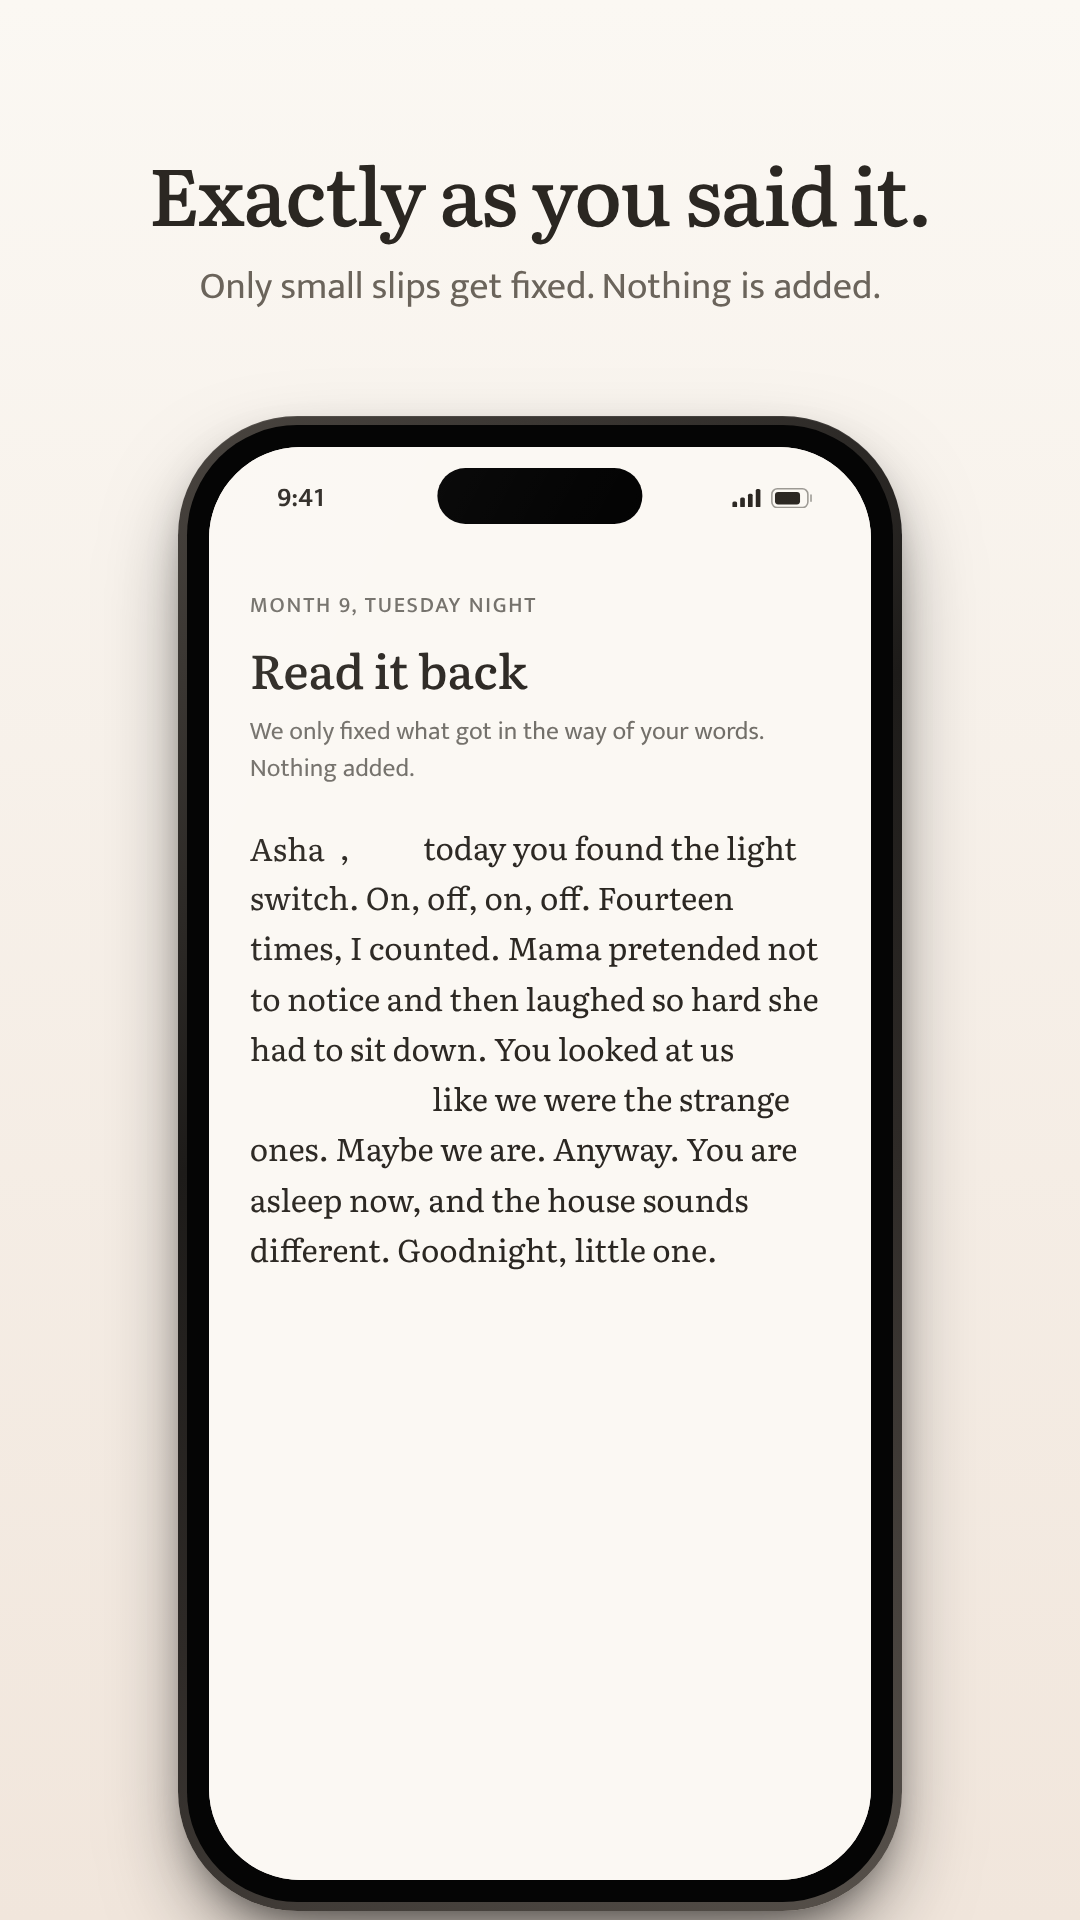
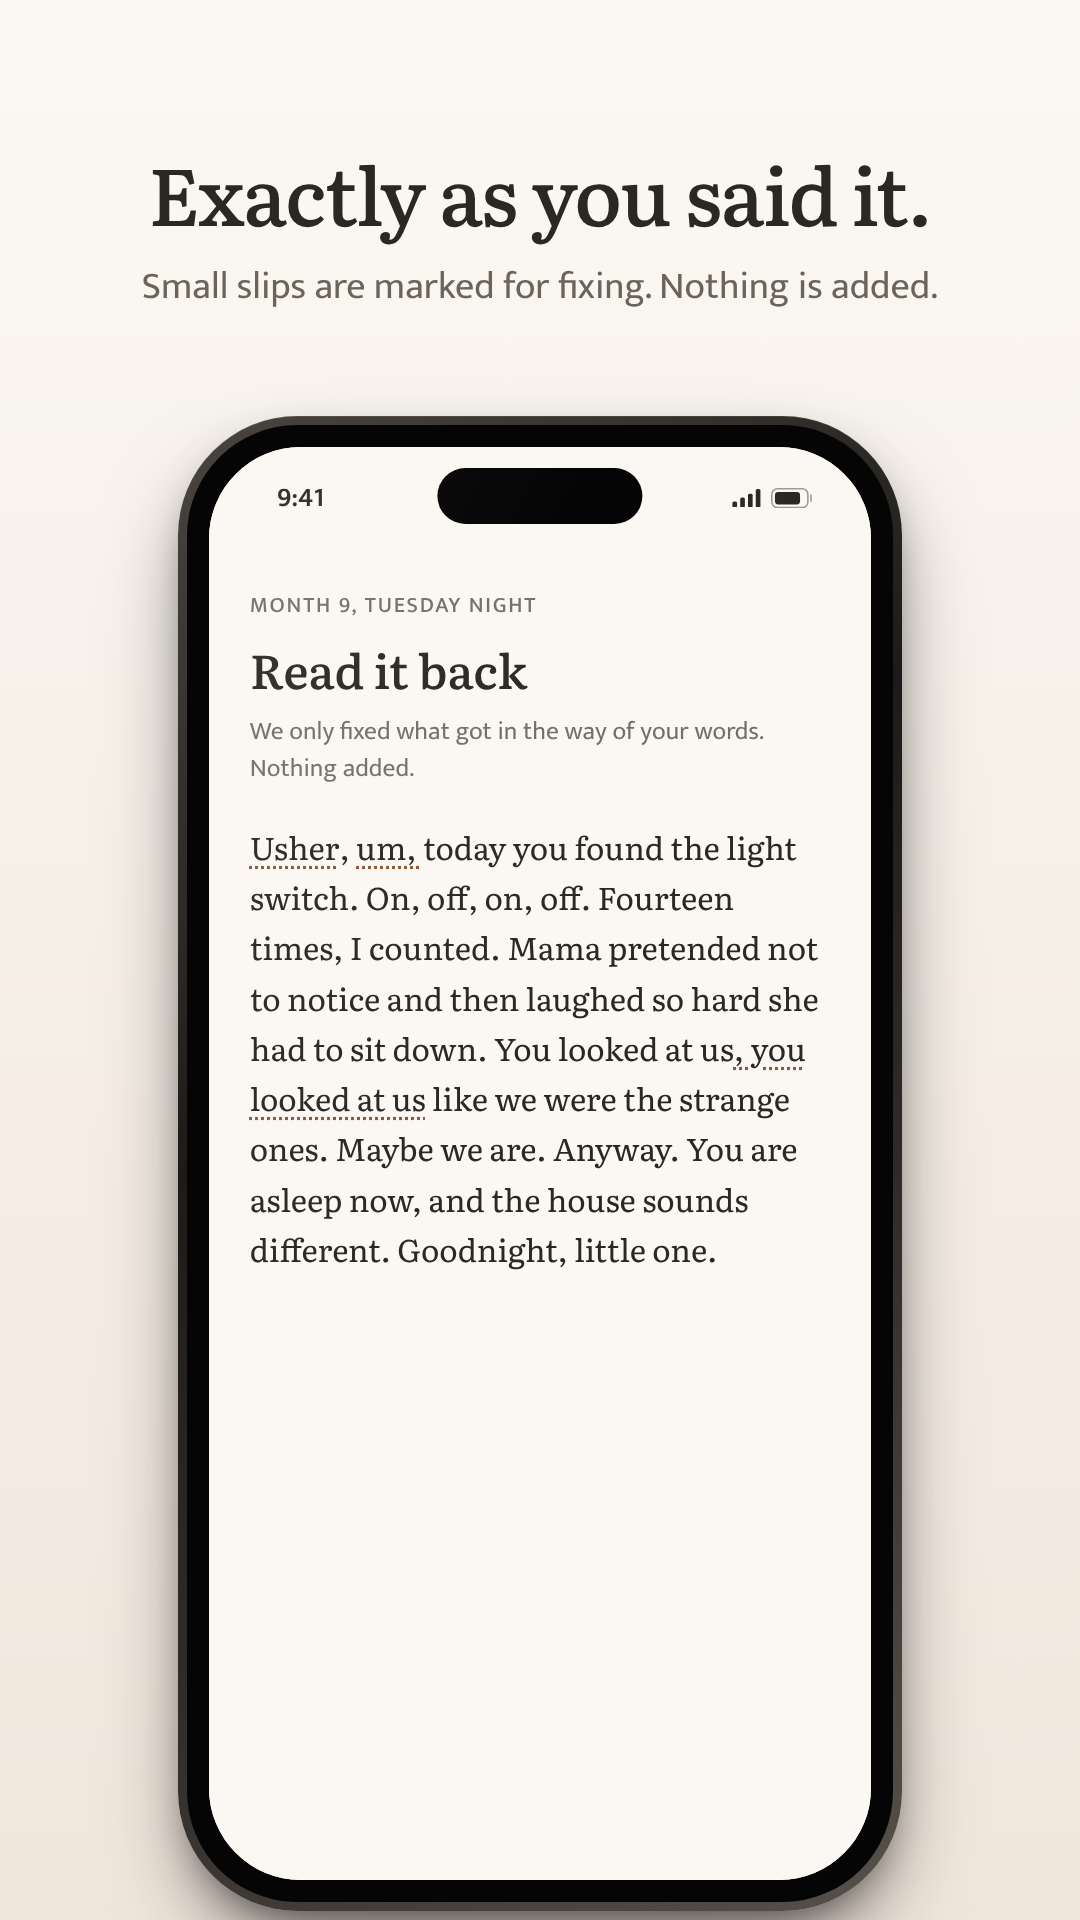
docs(store): screenshots final (iOS 6.9 and 6.5, Play, six-screen story)
Claude-Session: https://claude.ai/code/session_01Lk46zu5prXo6qgrrjf6TQ3

diff --git a/docs/store/screenshots/README.md b/docs/store/screenshots/README.md
@@ -1,0 +1,34 @@
+# Store screenshots
+
+Six screens, ordered as a story, rendered from the real web app-ui components
+(`apps/web/src/components/app-ui`: Tonight, Listening, Review, Book, Letter) inside the generic PhoneFrame.
+Demo family is the fictional Asha. All RGB PNG, no alpha.
+
+Rebuild from the repo root: `node docs/store/screenshots/build.mjs` (esbuild + playwright-core + chromium).
+Captions live in `captions.json`; layout in `src/entry.tsx`.
+
+| # | File name | Screen | Headline | Subline |
+|---|---|---|---|---|
+| 1 | 01-tonight.png | Tonight | A minute is plenty. | Open it, say one thing about today, put the phone down. |
+| 2 | 02-listening.png | Listening | Just talk. | Pause, laugh, lose your thread. It is listening. |
+| 3 | 03-review.png | Review | Exactly as you said it. | Small slips are marked for fixing. Nothing is added. |
+| 4 | 04-book.png | Book | A book that grows by month. | Every letter is filed by your child's age. |
+| 5 | 05-letter.png | Letter (paper) | Said once. Heard for years. | Read it, and hear the voice that said it. |
+| 6 | 06-letter-night.png | Letter (night) | Bedtime, in your voice. | Night mode for late reading. |
+
+| Folder | Size | Use |
+|---|---|---|
+| ios-6.9in/ | 1320x2868 | App Store iPhone 6.9 inch |
+| ios-6.5in/ | 1284x2778 | App Store iPhone 6.5 inch |
+| play-1080x1920/ | 1080x1920 (9:16) | Google Play phone |
+| play-1440x2560/ | 1440x2560 (9:16) | Google Play phone, high res |
+
+Each folder holds all six files above (24 PNGs).
+
+## Not done, or to know
+- iPad 13 inch skipped: `supportsTablet` is false in `apps/mobile/app.config.ts`, and iPad shots must show the app on iPad.
+- Screens are the website's web renders of the app UI, not captures of the Expo app on a device or simulator. Real-device rendering is unverified.
+- The Review screen is shown with fixes unresolved (dotted underlines). Resolved, the component leaves blank gaps where fillers were removed.
+- The listening screen shows words arriving mid-take (a fixed point, not live).
+- Play screenshots are prepared only; the site copy says no Android in v1.0.
+- Fonts are Literata and Mukta from the repo's fontsource packages.
